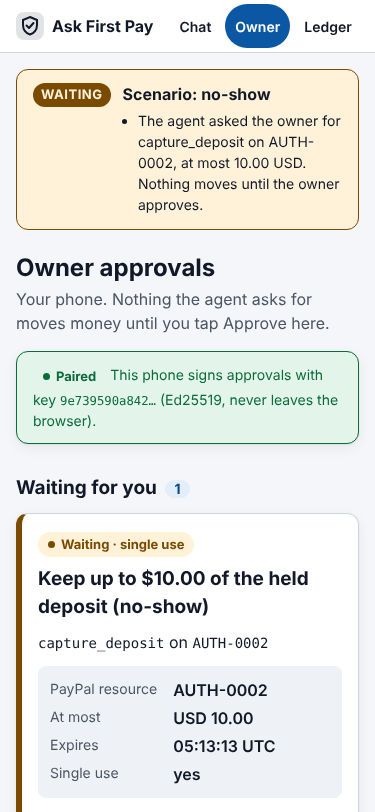
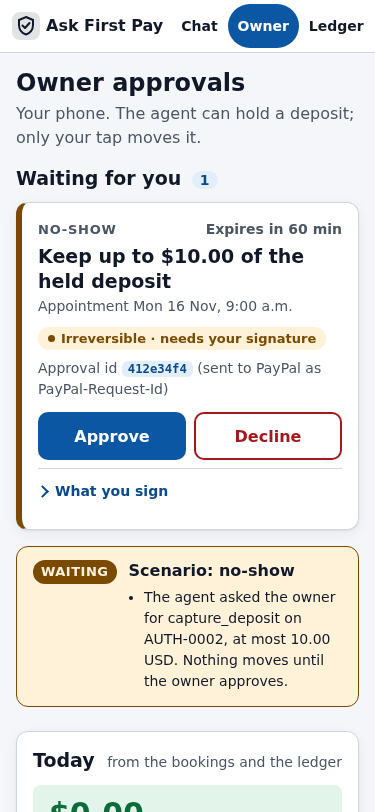
N9: the phone buzzes, Approve above the fold, browser tests, refreshed screenshots
owner.js polls /owner/api/mandates: a new request calls navigator.vibrate where available, puts
'(n)' in the tab title and shows the card (or a 'new request' bar while the owner is mid-tap);
the expiry countdown stays current. Approve is the first thing on a 375x812 phone. Ledger detail
reads 'sent to PayPal as PayPal-Request-Id: <jti>' and 'PayPal returned <id>'. Playwright tests
(optional 'browser' extra; skip without it) pin the fold, the buzz and the ledger detail.
Screenshots refreshed in both themes; gallery adds 09-11.

Claude-Session: https://claude.ai/code/session_01T6xRaSJebW8nyHNv8RRcMz

diff --git a/src/ask_first_pay/demo/static/app.css b/src/ask_first_pay/demo/static/app.css
@@ -141,6 +141,7 @@ input:focus-visible{border-color:var(--accent);outline-offset:0}
 .mandate p.headline{font-size:var(--fs-lg);font-weight:700;line-height:1.3;margin:var(--s1) 0 2px}
 .mandate .who{margin:0;color:var(--muted);font-size:var(--fs-sm)}
 .mandate .chips{margin:var(--s2) 0 0}
+.mandate .chips .chip{white-space:normal;line-height:1.35;padding-top:3px;padding-bottom:3px}
 .approval-id{margin:var(--s2) 0 var(--s3);font-size:var(--fs-sm);color:var(--muted)}
 .approval-id .rid,.detail dd.rid{font-weight:700;color:var(--accent-ink);background:var(--accent-soft);padding:1px 6px;border-radius:6px;word-break:normal}
 .decide .btn{min-height:48px}
@@ -173,7 +174,7 @@ table.plain{border-collapse:collapse;width:100%;font-size:var(--fs-sm);backgroun
 table.plain th,table.plain td{border-bottom:1px solid var(--line);padding:var(--s2);text-align:left;vertical-align:top}
 .detail{margin-top:var(--s3)}
 .detail h3{margin:0 0 var(--s2);font-size:var(--fs-md)}
-.detail dl{display:grid;grid-template-columns:minmax(110px,auto) 1fr;gap:var(--s1) var(--s4);margin:0}
+.detail dl{display:grid;grid-template-columns:minmax(96px,32%) minmax(0,1fr);gap:var(--s1) var(--s4);margin:0}
 .detail dt{color:var(--muted);font-size:var(--fs-sm)} .detail dd{margin:0;font-family:var(--mono);font-size:var(--fs-sm);word-break:break-all}
 .detail pre{white-space:pre-wrap;word-break:break-all;background:var(--surface-2);padding:var(--s3);border-radius:var(--radius-sm);font-size:var(--fs-xs);margin:var(--s3) 0 0}
 .built{font-size:var(--fs-xs);color:var(--muted);margin-top:var(--s2)}

diff --git a/src/ask_first_pay/demo/static/grid.js b/src/ask_first_pay/demo/static/grid.js
@@ -51,7 +51,7 @@
         return {title: 'Mandate ' + r.short + ' · ' + r.state, fields: [
           ['jti', r.id], ['action', r.action], ['recipient', r.resource], ['cap', 'USD ' + r.cap],
           ['asked', r.created_text], ['expires', r.exp_text], ['plan_hash', r.plan_hash],
-          ['Sent to PayPal as PayPal-Request-Id', r.state === 'used' ? r.id : 'not sent (never executed)'],
+          ['sent to PayPal as', r.state === 'used' ? 'PayPal-Request-Id: ' + r.id : 'not sent (never executed)'],
           ['PayPal returned', r.paypal || '—'],
           ['ledger rows', (r.ledger && r.ledger.length) ? r.ledger.map(function (n) { return '#' + n; }).join(', ') : 'none yet']],
           links: (r.ledger || []).map(function (n) { return ['ledger row #' + n, '/ledger/entry/' + n]; }),
@@ -80,7 +80,7 @@
         return {title: 'Ledger row #' + r.n + ' · ' + r.result + (r.reason ? ' · ' + r.reason : ''), fields: [
           ['time', r.ts_iso], ['result', r.result + (r.reason ? ' (' + r.reason + ')' : '')],
           ['mandate jti', r.mandate_id],
-          ['Sent to PayPal as PayPal-Request-Id', r.request_id || 'not sent: the gate refused it before PayPal'],
+          ['sent to PayPal as', r.request_id ? 'PayPal-Request-Id: ' + r.request_id : 'not sent: the gate refused it before PayPal'],
           ['PayPal returned', r.paypal_id || '—'],
           ['action', r.action], ['recipient', r.resource],
           ['amount', r.amount ? 'USD ' + r.amount : '—'],

diff --git a/src/ask_first_pay/demo/templates/owner.html b/src/ask_first_pay/demo/templates/owner.html
@@ -76,7 +76,7 @@
   <dl class="tiles">
     <div class="tile wide-tile"><dt>The agent, on its own</dt>
       <dd><span class="num">{{ today.agent_calls }}</span> PayPal {{ 'call' if today.agent_calls == 1 else 'calls' }} · $0.00 moved</dd>
-      <dd class="sub">{{ today.bookings }} {{ 'booking' if today.bookings == 1 else 'bookings' }} · {{ today.orders }} {{ 'order' if today.orders == 1 else 'orders' }} created · {{ today.holds }} {{ 'hold' if today.holds == 1 else 'holds' }} · {{ today.reauthorizations }} re-hold {{ 'check' if today.reauthorizations == 1 else 'checks' }}</dd></div>
+      <dd class="sub">{{ today.bookings }} {{ 'booking' if today.bookings == 1 else 'bookings' }} · {{ today.orders }} {{ 'order' if today.orders == 1 else 'orders' }} created · {{ today.holds }} {{ 'hold' if today.holds == 1 else 'holds' }}{% if today.reauthorizations %} · {{ today.reauthorizations }} re-hold {{ 'check' if today.reauthorizations == 1 else 'checks' }}{% endif %}</dd></div>
     <div class="tile wide-tile"><dt>You</dt>
       <dd><span class="num">{{ today.taps }}</span> {{ 'tap' if today.taps == 1 else 'taps' }}</dd>
       <dd class="sub">{{ today.approvals }} approved · {{ today.declines }} declined</dd></div>

diff --git a/tests/demo/test_demo_browser.py b/tests/demo/test_demo_browser.py
@@ -1,0 +1,151 @@
+"""N9 in a real browser (headless Chromium through Playwright, the optional `browser` extra):
+on a 375x812 phone the first Approve button is visible without scrolling, a tap still signs
+with WebCrypto, and a new request makes the phone buzz and badges the tab title.
+
+Skipped, with the reason, when Playwright or its Chromium is missing
+(`pip install -e ".[dev,browser]" && python -m playwright install chromium`)."""
+import socket
+import threading
+import time
+
+import pytest
+
+sync_api = pytest.importorskip("playwright.sync_api", reason="Playwright not installed (optional extra: browser)")
+
+PHONE = {"width": 375, "height": 812}
+# A stand-in for the phone's motor: counts navigator.vibrate calls across reloads.
+BUZZ_SPY = """
+Object.defineProperty(navigator, 'vibrate', {configurable: true, value: function (p) {
+  var n = Number(sessionStorage.getItem('buzzes') || 0) + 1;
+  sessionStorage.setItem('buzzes', String(n));
+  return true;
+}});
+"""
+
+
+def _free_port() -> int:
+    with socket.socket() as s:
+        s.bind(("127.0.0.1", 0))
+        return s.getsockname()[1]
+
+
+@pytest.fixture
+def live(tmp_path, monkeypatch):
+    for k in ("ASK_FIRST_MANDATE_TTL_MIN", "ASK_FIRST_VIDEO", "ASK_FIRST_DB", "ANTHROPIC_API_KEY", "PAYPAL_CLIENT_ID"):
+        monkeypatch.delenv(k, raising=False)
+    import uvicorn
+
+    from ask_first_pay.demo import create_app
+    from ask_first_pay.fake_provider import FakeProvider
+    app = create_app(FakeProvider(), str(tmp_path / "ledger.jsonl"))
+    port = _free_port()
+    server = uvicorn.Server(uvicorn.Config(app, host="127.0.0.1", port=port, log_level="warning"))
+    threading.Thread(target=server.run, daemon=True).start()
+    for _ in range(200):
+        if server.started:
+            break
+        time.sleep(0.02)
+    with sync_api.sync_playwright() as p:
+        try:
+            browser = p.chromium.launch()
+        except Exception as e:                       # noqa: BLE001 - no Chromium downloaded
+            server.should_exit = True
+            pytest.skip(f"Chromium for Playwright is not installed: {str(e).splitlines()[0]}")
+        yield {"base": f"http://127.0.0.1:{port}", "state": app.state.demo, "browser": browser}
+        browser.close()
+    server.should_exit = True
+
+
+def _paired_phone(live):
+    ctx = live["browser"].new_context(viewport=PHONE, device_scale_factor=1, is_mobile=True, has_touch=True)
+    ctx.add_init_script(BUZZ_SPY)
+    page = ctx.new_page()
+    page.goto(live["base"] + "/owner")
+    page.fill("#code", live["state"].new_pairing_code())
+    page.click("#pair-form button")
+    page.wait_for_selector("#device-status[data-paired=yes]", timeout=10_000)
+    return page
+
+
+def _until(check, timeout=10.0):
+    """Poll from Python: the page's CSP (script-src 'self') forbids Playwright's string predicates."""
+    end = time.time() + timeout
+    while time.time() < end:
+        if check():
+            return True
+        time.sleep(0.1)
+    raise AssertionError("condition not met in time")
+
+
+def _approve_fully_visible(page) -> dict:
+    page.wait_for_selector(".mandate .approve")
+    page.wait_for_selector("[data-grid].js-grid")               # the page is fully built (AG Grid ran)
+    page.wait_for_load_state("networkidle")
+    box = page.locator(".mandate .approve").first.bounding_box()
+    return {"box": box, "scroll_y": page.evaluate("window.scrollY"),
+            "scroll_w": page.evaluate("document.documentElement.scrollWidth"),
+            "wide": page.evaluate("() => [...document.querySelectorAll('body *')].filter(e => e.getBoundingClientRect().right > 376 && !e.closest('.grid-wrap')).slice(0, 8).map(e => e.tagName + '.' + e.className + ' ' + Math.round(e.getBoundingClientRect().right))")}
+
+
+def test_approve_above_fold_on_a_375x812_phone_for_capture_and_void(live):
+    page = _paired_phone(live)
+    for scenario, words in (("no_show", "Keep up to $10.00"), ("cancel", "Moves $0.00")):
+        page.request.post(live["base"] + f"/scenario/{scenario}")
+        page.goto(live["base"] + "/owner")
+        assert words in page.locator(".mandate .headline").first.inner_text()
+        got = _approve_fully_visible(page)
+        b = got["box"]
+        assert got["scroll_y"] == 0 and got["scroll_w"] <= PHONE["width"], got     # no scrolling either way
+        assert b["y"] >= 0 and b["y"] + b["height"] <= PHONE["height"], (scenario, b)
+        assert b["x"] >= 0 and b["x"] + b["width"] <= PHONE["width"], (scenario, b)
+        assert b["height"] >= 44                                                 # a thumb-sized target
+        # and the tap still signs in this browser with the non-extractable WebCrypto key
+        card = page.locator(".mandate").first
+        card.locator(".approve").click()
+        card.locator(".result").filter(has_text="Approved").wait_for(timeout=10_000)
+    assert [e["result"] for e in live["state"].agent.view_ledger()["entries"]] == ["executed", "executed"]
+
+
+def test_owner_page_buzzes_and_badges_the_title_on_a_new_request(live):
+    page = _paired_phone(live)
+    page.goto(live["base"] + "/owner")
+    title = page.title()
+    assert not title.startswith("(") and page.locator(".mandate").count() == 0
+    page.wait_for_timeout(3500)                                   # one poll with nothing new: no buzz
+    assert page.evaluate("sessionStorage.getItem('buzzes')") is None and page.title() == title
+
+    page.request.post(live["base"] + "/scenario/no_show")         # the agent asks, from elsewhere
+    _until(lambda: page.title().startswith("(1) "))
+    page.wait_for_selector(".mandate .approve", timeout=10_000)   # the card came in without a tap
+    assert page.evaluate("sessionStorage.getItem('buzzes')") == "1"
+    assert page.title() == "(1) " + title
+
+    # while the owner is reading a card, a second request never pulls the page away
+    page.locator(".mandate details summary").first.click()        # a tap clears the badge
+    assert page.title() == title
+    page.request.post(live["base"] + "/scenario/cancel")
+    page.wait_for_selector("#new-request:not([hidden])", timeout=10_000)
+    assert page.locator("#new-request").inner_text() == "A new request arrived · show it"
+    assert page.title() == "(1) " + title and page.locator(".mandate").count() == 1
+    assert page.evaluate("sessionStorage.getItem('buzzes')") == "2"
+    page.locator("#new-request").click()
+    _until(lambda: page.locator(".mandate").count() == 2)
+
+
+def test_ledger_detail_shows_the_request_id_and_the_paypal_id_in_the_browser(live):
+    page = _paired_phone(live)
+    page.set_viewport_size({"width": 1280, "height": 720})
+    page.request.post(live["base"] + "/scenario/no_show")
+    page.goto(live["base"] + "/owner")
+    card = page.locator(".mandate").first
+    jti = card.get_attribute("data-id")
+    card.locator(".approve").click()
+    card.locator(".result").filter(has_text="Approved").wait_for(timeout=10_000)
+    capture_id = next(iter(live["state"].provider.captures))
+    page.goto(live["base"] + "/ledger")
+    detail = page.locator("#ledger-detail")
+    detail.wait_for(state="visible", timeout=10_000)              # the newest row opens by itself
+    text = detail.inner_text()
+    assert f"PayPal-Request-Id: {jti}" in text and f"PayPal capture id {capture_id} (COMPLETED)" in text
+    dd = detail.locator("dd").nth(2).bounding_box()               # the value column stays readable
+    assert dd["width"] >= 200, dd

diff --git a/scripts/screenshots.py b/scripts/screenshots.py
@@ -14,6 +14,10 @@ real WebCrypto flow, plays the stories by pressing the real buttons and saves PN
   05-owner-mobile.png        the owner's view at 375 px
   06-ledger-mobile.png       the ledger at 375 px
   07-chat-mobile.png         the chat at 375 px
+  08-ledger-dark.png         the ledger in dark mode (--dark)
+  09-owner-void-mobile.png   the cancellation card at 375 px: "Moves $0.00 · releases the $10.00 hold"
+  10-owner-today-mobile.png  the Today panel at the end of the day (the video's end card)
+  11-owner-today-dark.png    the same in dark mode (--dark)
 """
 from __future__ import annotations
 
@@ -103,19 +107,39 @@ def main(argv=None) -> int:
         shot("06-ledger-mobile.png", PHONE, scroll_to="[data-toolbar=ledger]")
         page.set_viewport_size(DESKTOP)
 
-        # 4. cancellation: void approved, nothing charged
+        # 4. cancellation: the void card on the phone, then approved: nothing charged
         go("/chat")
         page.get_by_role("button", name="Cancellation").click()
         page.wait_for_load_state("networkidle")
+        shot("09-owner-void-mobile.png", PHONE)
+        page.set_viewport_size(DESKTOP)
         approve_first()
         go("/chat")
         shot("04-cancellation-voided.png")
+
+        # 5. the rest of the day: goodwill (keep, then give part back) and one request declined
+        go("/chat")
+        page.get_by_role("button", name="Goodwill").click()
+        page.wait_for_load_state("networkidle")
+        approve_first()                                   # the capture
+        approve_first()                                   # the refund the owner chose to give
+        go("/chat")
+        page.get_by_role("button", name="No-show").click()
+        page.wait_for_load_state("networkidle")
+        go("/owner")
+        page.locator(".mandate .decline").first.click()
+        page.wait_for_timeout(900)
+        go("/owner")
+        shot("10-owner-today-mobile.png", PHONE, scroll_to="#today")
+        page.set_viewport_size(DESKTOP)
 
         if args.dark:
             dctx = browser.new_context(viewport=DESKTOP, color_scheme="dark")
             page = dctx.new_page()
             go("/ledger#n=2")
             shot("08-ledger-dark.png")
+            go("/owner")
+            shot("11-owner-today-dark.png", PHONE, scroll_to="#today")
         browser.close()
     server.should_exit = True
     return 0

diff --git a/src/ask_first_pay/demo/happened.py b/src/ask_first_pay/demo/happened.py
@@ -62,8 +62,12 @@ def describe(demo, label: str, before: dict) -> dict:
         was = before["mandates"].get(jti)
         if was is None:
             m = demo.owner.get(jti) or {}
-            items.append(f"The agent asked the owner for {m.get('action')} on {m.get('recipient')}, at most "
-                         f"{_money(m.get('cap', 0))}. Nothing moves until the owner approves.")
+            if m.get("action") == "void_deposit":      # its 0.01 cap is symbolic: say what it does
+                items.append(f"The agent asked the owner to release (void) the hold {m.get('recipient')}; "
+                             f"a void moves no money. Nothing happens until the owner approves.")
+            else:
+                items.append(f"The agent asked the owner for {m.get('action')} on {m.get('recipient')}, at most "
+                             f"{_money(m.get('cap', 0))}. Nothing moves until the owner approves.")
             if st == "pending":
                 tones.add("warn")
         elif st == "declined" and was != "declined":

diff --git a/tests/demo/test_demo_owner_story.py b/tests/demo/test_demo_owner_story.py
@@ -124,7 +124,7 @@ def test_owner_card_request_id_and_paypal_ids_for_void_and_refund(demo):
     assert by_id[void]["paypal_id"] == f"PayPal authorization {void_call[1]} (VOIDED)"
     grid = (owner_view.__file__.rsplit("/", 1)[0] + "/static/grid.js")
     js = open(grid, encoding="utf-8").read()
-    assert "Sent to PayPal as PayPal-Request-Id" in js and "r.request_id" in js and "r.paypal_id" in js
+    assert "'sent to PayPal as', r.request_id ? 'PayPal-Request-Id: ' + r.request_id" in js and "r.paypal_id" in js
 
 
 def test_owner_card_request_id_survives_a_restart_with_the_store(tmp_path):

diff --git a/src/ask_first_pay/demo/owner_view.py b/src/ask_first_pay/demo/owner_view.py
@@ -82,7 +82,7 @@ def card(m: dict, booking: dict | None) -> dict:
         # The cap a void carries (0.01) is symbolic: the engine needs a positive amount. It goes in
         # the details; the headline says what really happens to the money.
         headline = f"Moves $0.00 · releases the {money(held)} hold" if held else "Moves $0.00 · releases the hold"
-        chip = "Releases the hold · needs your signature"
+        chip = "Needs your signature"
     else:
         headline, chip = action, "Needs your signature"
     who = ""

diff --git a/docs/DEVPOST.md b/docs/DEVPOST.md
@@ -144,13 +144,16 @@ All from the offline demo in headless Chromium (`scripts/screenshots.py`), PNG.
 | File | Size | Shows |
 |---|---|---|
 | `docs/screenshots/01-chat-booking.png` | 1280x720 | the customer books; the deposit is held on PayPal, not charged |
-| `docs/screenshots/02-owner-approval.png` | 1280x720 | the owner's phone shows the signed capture mandate; the mandate grid beside it |
+| `docs/screenshots/02-owner-approval.png` | 1280x720 | the owner's approval card ("Keep up to $10.00 of the held deposit", expires in 60 min, approval id = PayPal-Request-Id); the mandate grid beside it |
 | `docs/screenshots/03-ledger-replay.png` | 1280x720 | the replay is rejected; ledger grid with status chips and the row's signed fields |
 | `docs/screenshots/04-cancellation-voided.png` | 1280x720 | a cancellation approved: the hold is voided, nothing charged |
-| `docs/screenshots/05-owner-mobile.png` | 375x812 | the owner's view on a phone |
+| `docs/screenshots/05-owner-mobile.png` | 375x812 | the owner's phone: the no-show card with Approve above the fold |
 | `docs/screenshots/06-ledger-mobile.png` | 375x812 | the ledger grid and row detail on a phone |
 | `docs/screenshots/07-chat-mobile.png` | 375x812 | the chat on a phone |
 | `docs/screenshots/08-ledger-dark.png` | 1280x720 | the ledger in dark mode |
+| `docs/screenshots/09-owner-void-mobile.png` | 375x812 | a cancellation card: "Moves $0.00 · releases the $10.00 hold" |
+| `docs/screenshots/10-owner-today-mobile.png` | 375x812 | the Today panel at the end of the day: "$0.00 moved without your signature", computed from the ledger |
+| `docs/screenshots/11-owner-today-dark.png` | 375x812 | the Today panel in dark mode |
 
 ## Built with
 
